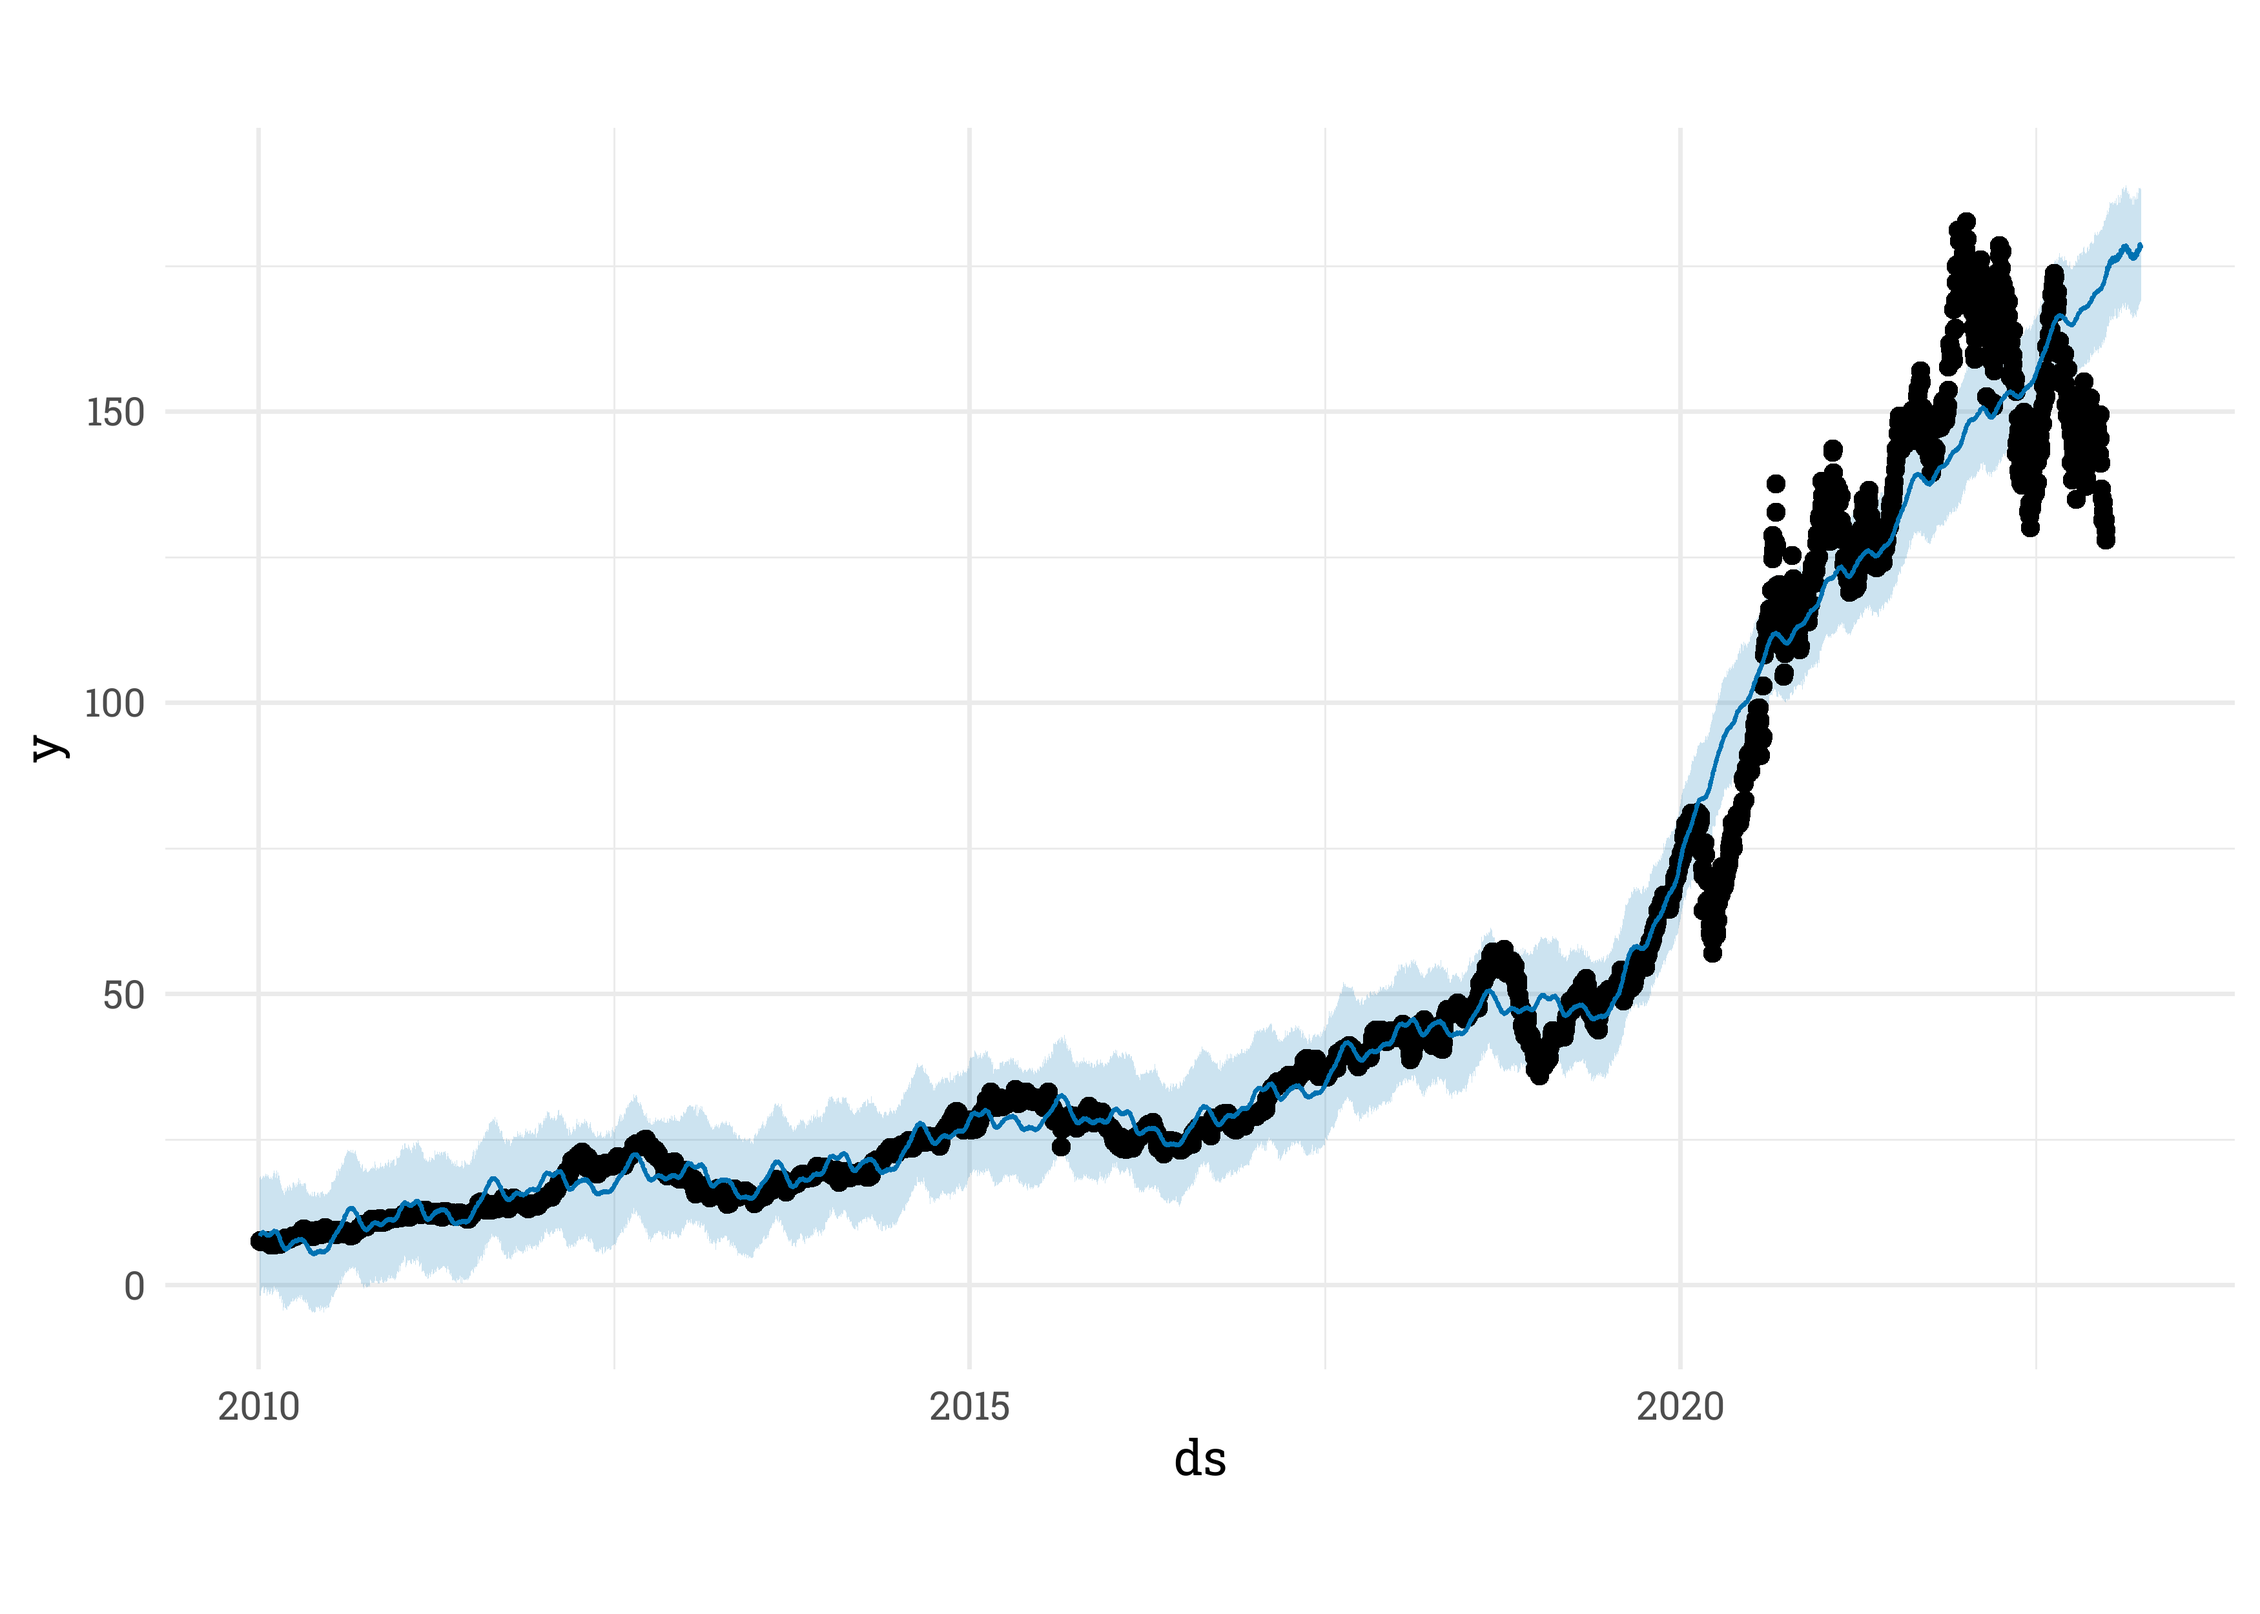
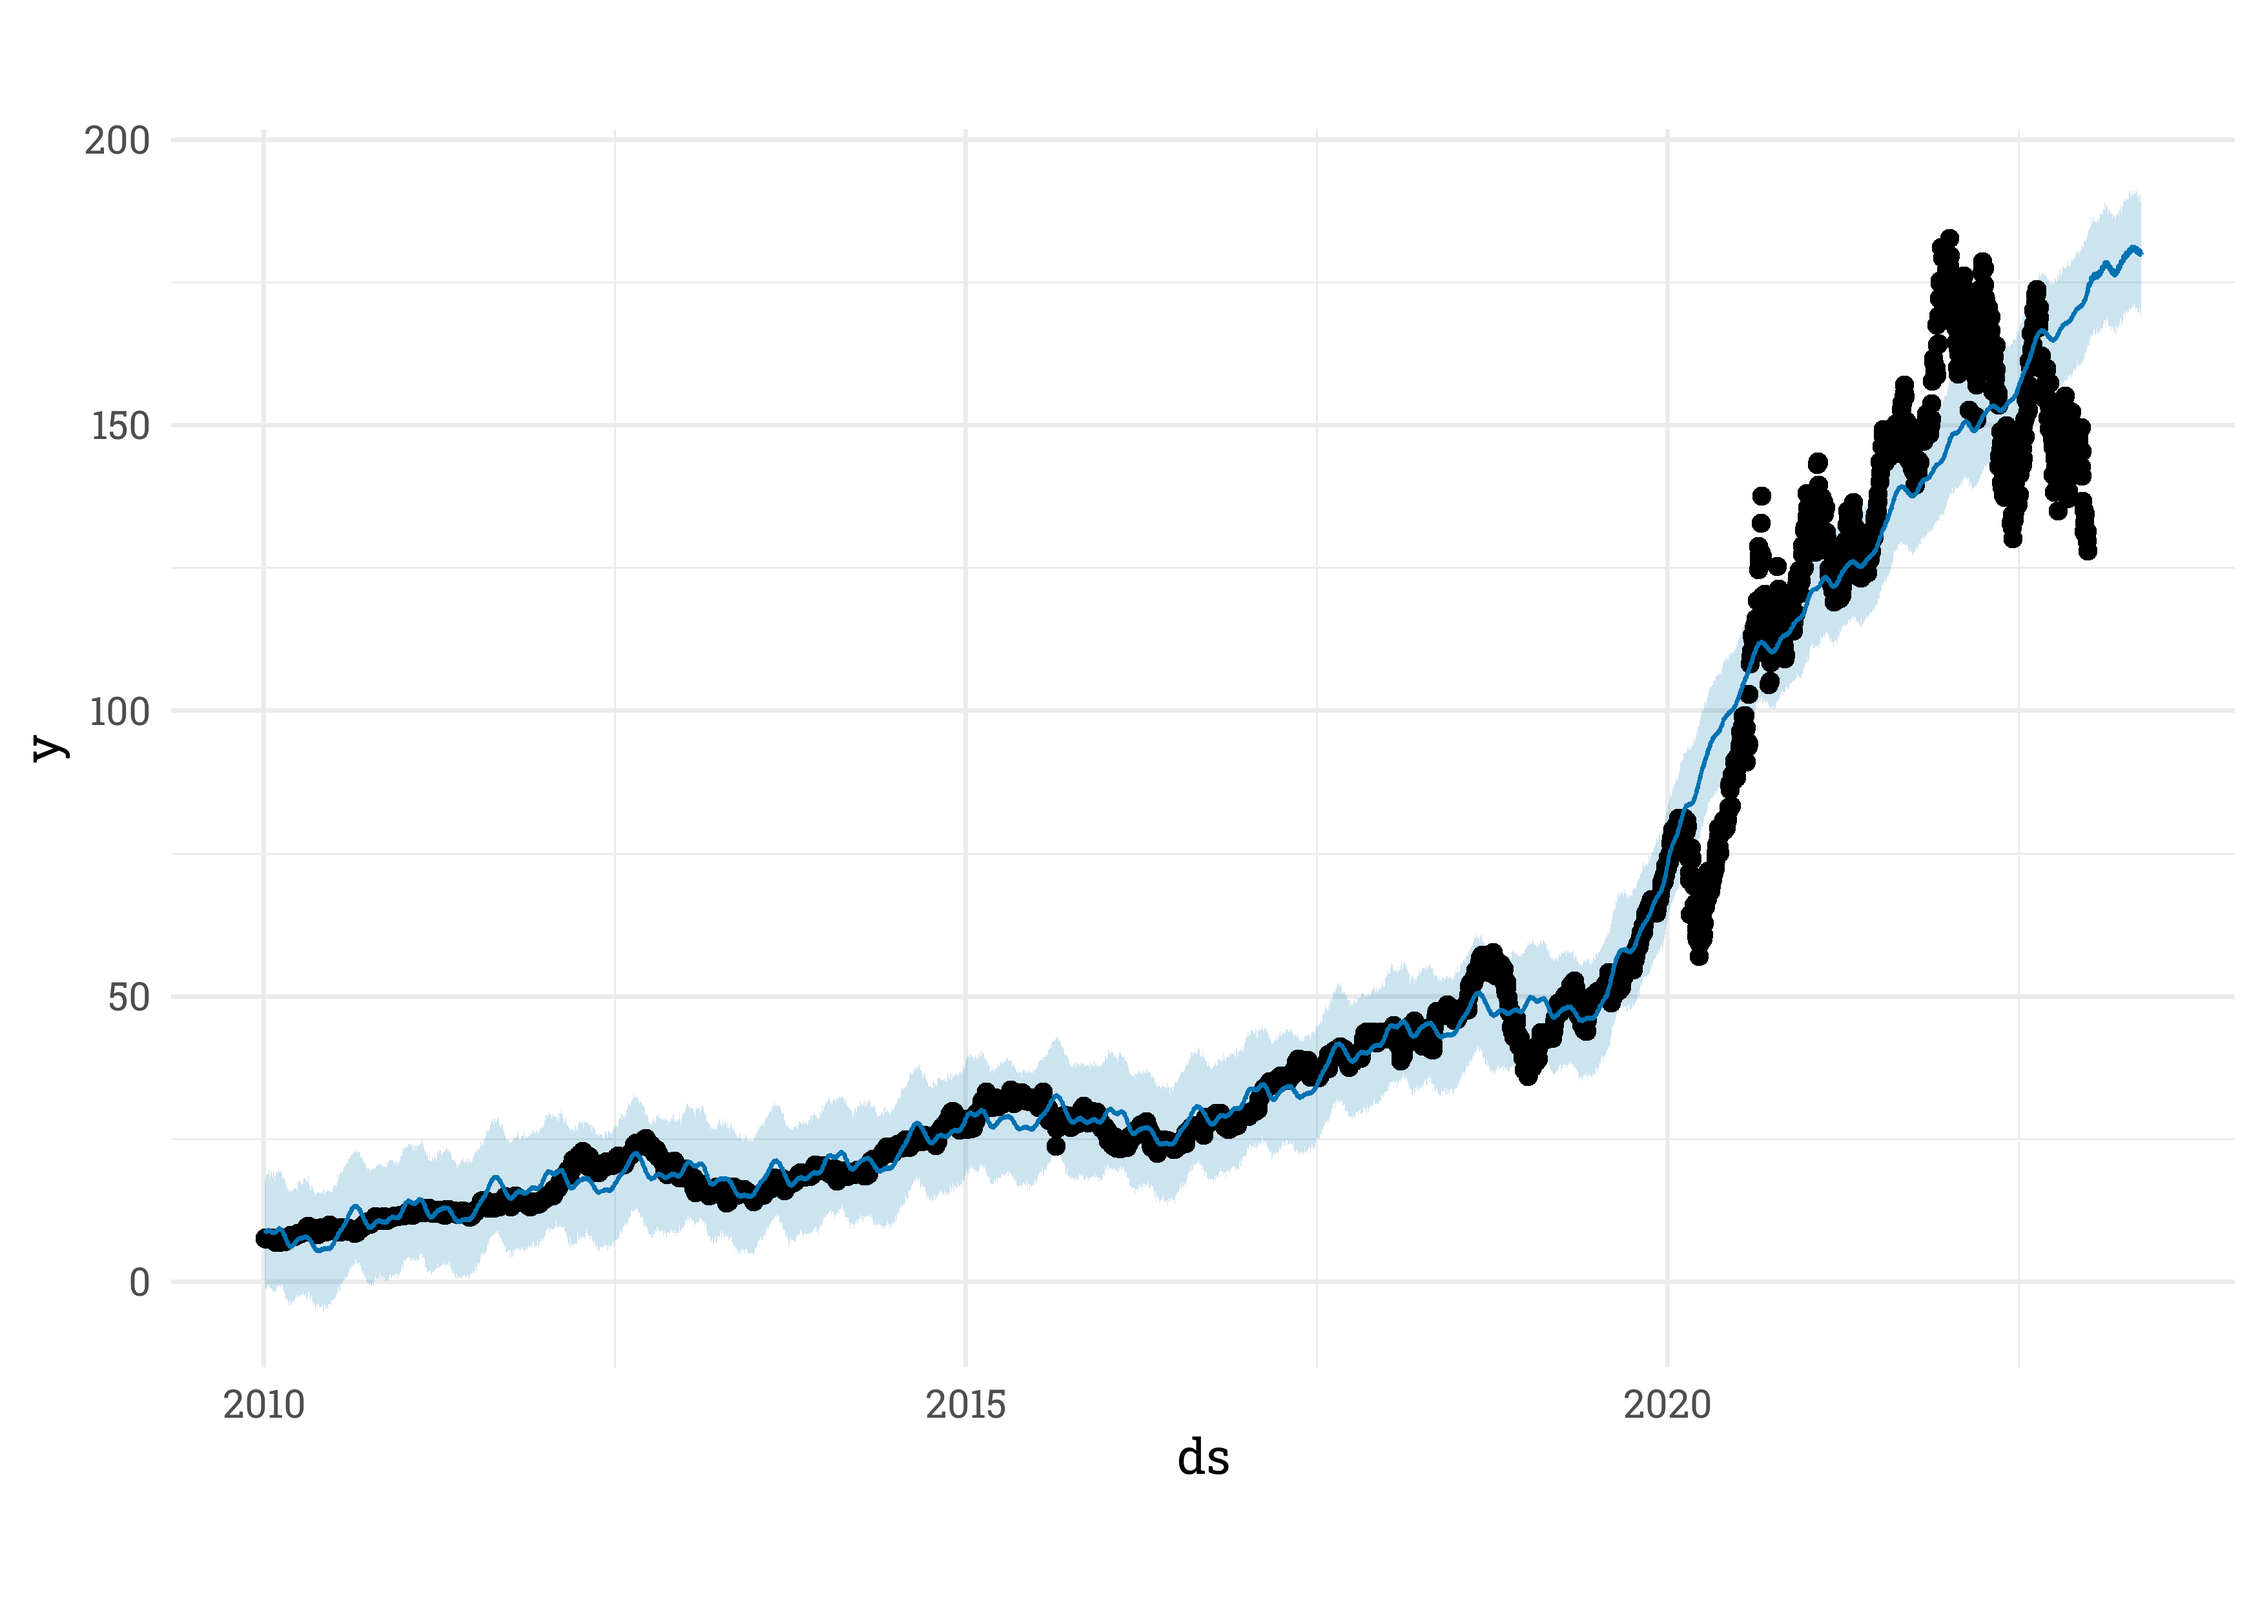
Text

diff --git a/Tech Stock Prices/Tech-Stock-Prices.md b/Tech Stock Prices/Tech-Stock-Prices.md
@@ -205,9 +205,8 @@ m_aapl <- prophet(aapl)
     ## Disabling daily seasonality. Run prophet with daily.seasonality=TRUE to override this.
 
 ``` r
-future_dates <- make_future_dataframe(m_aapl, periods = 90)
-
-forecast <- predict(m_aapl, future_dates)
+forecast <- predict(m_aapl, 
+                    make_future_dataframe(m_aapl, periods = 140))
 
 plot(m_aapl, forecast)
 ```
@@ -231,6 +230,12 @@ plot(forecast(arima_fit, h = 100))
 ```
 
 ![](Tech-Stock-Prices_files/figure-gfm/unnamed-chunk-11-1.png)<!-- -->
+
+Now, we will try to fit an ARIMA by looking at a stationary version of
+the time series. It appears as though the best fit in an ARIMA(2,1,3),
+although this is of course not the true model for the stock. ARIMA
+models are not great at modeling stock prices, as their prices are often
+a product of unknown variables.
 
 ``` r
 plot(diff(log(aapl$y)),type = "l")
